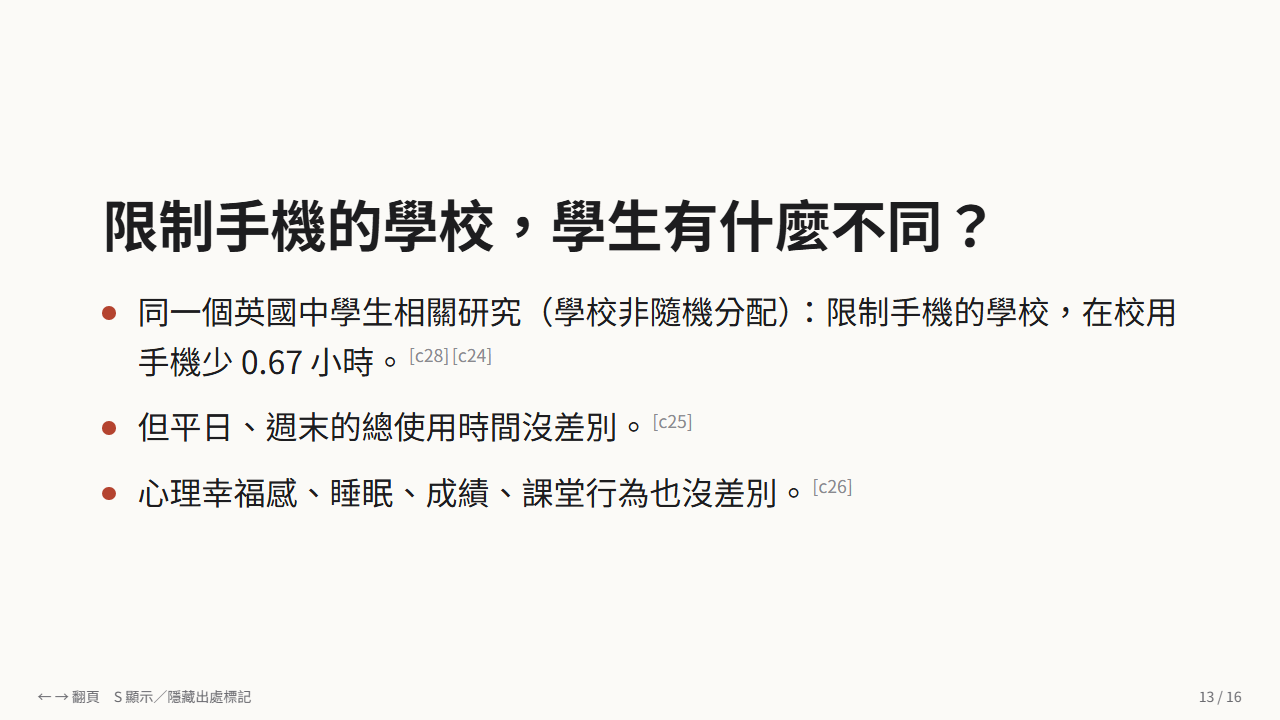
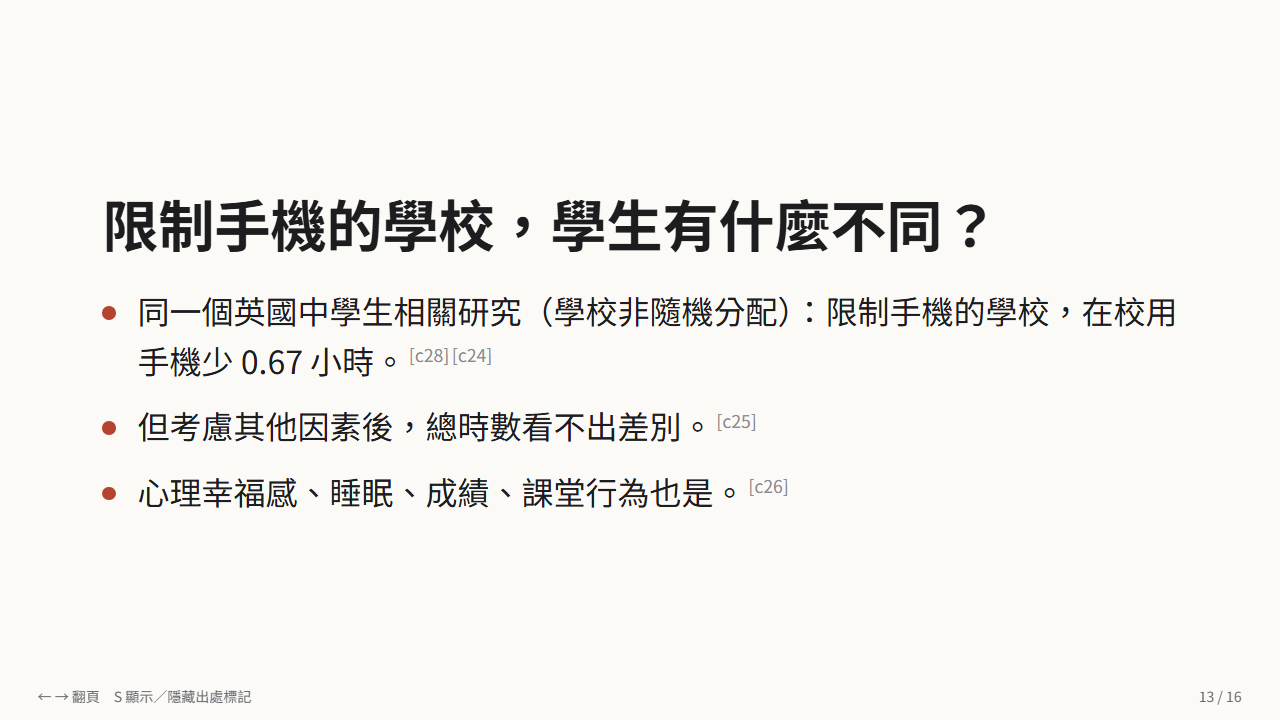
lint: fix 3b-D to 3b-H; slides v5 (c25, slide-13 rerun G5-G8); content freeze

Changed region(s): [[0.125, 0.55, 0.5938, 0.6111], [0.5312, 0.6417, 0.6562, 0.7028]]

diff --git a/outputs/slides-intro/deck.html b/outputs/slides-intro/deck.html
@@ -38,7 +38,7 @@ body.hide-refs .ref{display:none}
 <section class="slide" data-slide="slide-10"><h1>「有關聯」不等於「造成」</h1><ul><li>這篇整理的是「有關聯」，不是「造成」（僅根據摘要）。<span class="ref" title="（[[nguyen-2025]], Abstract: &quot;Increased SFV use was associated with poorer cognition&quot;）">[c15]</span></li></ul><p class="lead">心理健康的研究呢？</p><ul><li>一位研究者的書評提醒：「科技使用」和「心理健康問題」的趨勢線一起上升，不能判斷誰造成誰。<span class="ref" title="（[[odgers-2024]], p. 29: &quot;how to avoid making up stories by simply looking at trend lines&quot;）">[c23]</span></li></ul></section>
 <section class="slide" data-slide="slide-11"><h1>手機、社群媒體是心理健康的元兇嗎？</h1><ul><li>前述短影音整理：看越多，心理健康越差，屬弱相關（僅根據摘要）。<span class="ref" title="（[[nguyen-2025]], Abstract: &quot;Similarly, increased SFV use was associated with poorer mental health (weak mean effect size, r = -.21)&quot;）">[c16]</span></li><li>英國中學生：用手機越久，心理幸福感越低（相關研究）。<span class="ref" title="（[[goodyear-2025]], p. 8: &quot;Increases in smartphone and social media time were associated with reduced mental wellbeing on a weekday, on a weekend day, and across a week&quot;）">[c17]</span></li><li>作者：也可能反過來，心理狀態差的學生用得較多。<span class="ref" title="（[[goodyear-2025]], p. 12: &quot;the study design is cross sectional which makes it difficult to draw conclusions about causality and reverse causality cannot be ruled out&quot;）">[c18]</span></li></ul></section>
 <section class="slide" data-slide="slide-12"><h1>書評：沒證據顯示社群媒體造成心理疾病流行</h1><ul><li>書評指出：研究結果有的沒關聯、有的關聯小、有的不一致。<span class="ref" title="（[[odgers-2024]], p. 29: &quot;Our efforts have produced a mix of no, small and mixed associations&quot;）">[c19]</span></li><li>也提醒可能反過來：原有心理問題的青少年，用得較多或用法不同。<span class="ref" title="（[[odgers-2024]], p. 29: &quot;mental-health problems use such platforms more often or in different ways from their healthy peers&quot;）">[c20]</span></li><li>並指出：沒有證據顯示社群媒體造成心理疾病流行。<span class="ref" title="（[[odgers-2024]], p. 30: &quot;there is no evidence that using these platforms is rewiring children&#x27;s brains or driving an epidemic of mental illness&quot;）">[c21]</span></li></ul></section>
-<section class="slide" data-slide="slide-13"><h1>限制手機的學校，學生有什麼不同？</h1><ul><li>同一個英國中學生相關研究（學校非隨機分配）：限制手機的學校，在校用手機少 0.67 小時。<span class="ref" title="（[[goodyear-2025]], p. 12: &quot;there is a risk of selection bias and unmeasured confounding in this study&quot;）">[c28]</span><span class="ref" title="（[[goodyear-2025]], p. 7: &quot;Students attending restrictive schools had significantly lower in school smartphone time&quot;）">[c24]</span></li><li>但平日、週末的總使用時間沒差別。<span class="ref" title="（[[goodyear-2025]], p. 7: &quot;in the adjusted models, the differences were non-significant&quot;）">[c25]</span></li><li>心理幸福感、睡眠、成績、課堂行為也沒差別。<span class="ref" title="（[[goodyear-2025]], p. 7: &quot;with no evidence of a difference between groups when controlling for other variables&quot;） （[[goodyear-2025]], p. 7: &quot;No significant differences in pupil outcomes were observed between permissive and restrictive schools for all other behavioural outcomes&quot;）">[c26]</span></li></ul></section>
+<section class="slide" data-slide="slide-13"><h1>限制手機的學校，學生有什麼不同？</h1><ul><li>同一個英國中學生相關研究（學校非隨機分配）：限制手機的學校，在校用手機少 0.67 小時。<span class="ref" title="（[[goodyear-2025]], p. 12: &quot;there is a risk of selection bias and unmeasured confounding in this study&quot;）">[c28]</span><span class="ref" title="（[[goodyear-2025]], p. 7: &quot;Students attending restrictive schools had significantly lower in school smartphone time&quot;）">[c24]</span></li><li>但考慮其他因素後，總時數看不出差別。<span class="ref" title="（[[goodyear-2025]], p. 7: &quot;in the adjusted models, the differences were non-significant&quot;）">[c25]</span></li><li>心理幸福感、睡眠、成績、課堂行為也是。<span class="ref" title="（[[goodyear-2025]], p. 7: &quot;with no evidence of a difference between groups when controlling for other variables&quot;） （[[goodyear-2025]], p. 7: &quot;No significant differences in pupil outcomes were observed between permissive and restrictive schools for all other behavioural outcomes&quot;）">[c26]</span></li></ul></section>
 <section class="slide" data-slide="slide-14"><h1>這個研究沒回答的事：注意力</h1><ul><li>同一個英國中學生研究沒有測量注意力（包括專注力）。<span class="ref" title="（[[goodyear-2025]], p. 5: &quot;Secondary health and education-related outcomes assessed in pupil participants were: anxiety, depression, physical activity, sleep, classroom behaviour, attainment, and problematic social media use&quot;）">[c27]</span></li><li>所以「限制手機能不能讓學生更專心」，這個研究無法回答。<span class="ref" title="（[[goodyear-2025]], p. 5: &quot;Secondary health and education-related outcomes assessed in pupil participants were: anxiety, depression, physical activity, sleep, classroom behaviour, attainment, and problematic social media use&quot;）">[c27]</span></li></ul></section>
 <section class="slide" data-slide="slide-15"><h1>看到手機新聞，先問三件事</h1><p class="lead">是相關，還是實驗？<span class="wref" title="wiki 概念頁：wiki/concepts/correlation-vs-causation.md">[[correlation-vs-causation]]</span></p><p class="lead">研究對象是誰？<span class="wref" title="wiki 概念頁：wiki/concepts/study-population.md">[[study-population]]</span></p><p class="lead">有沒有人重做過？<span class="wref" title="wiki 概念頁：wiki/concepts/replication.md">[[replication]]</span></p><ul><li>另外，那篇書評認為：考量青少年花在平台上的時間，平台仍然需要改革。<span class="ref" title="（[[odgers-2024]], p. 30: &quot;considerable reforms to these platforms are required, given how much time young people spend on them&quot;）">[c22]</span></li></ul></section>
 <section class="slide sources generated" data-slide="sources"><h1>資料來源</h1><ul><li>[c01] Panova 與 Carbonell, 2018, p. 252</li><li>[c02] Panova 與 Carbonell, 2018, p. 252</li><li>[c03] Panova 與 Carbonell, 2018, p. 255</li><li>[c04] Panova 與 Carbonell, 2018, p. 256</li><li>[c05] Panova 與 Carbonell, 2018, p. 252</li><li>[c06] Panova 與 Carbonell, 2018, p. 255</li><li>[c07] Ward 等人, 2017, p. 145</li><li>[c08] Ward 等人, 2017, p. 148</li><li>[c09] Pileggi 等人, 2025, Abstract（僅摘要）</li><li>[c10] Ward 等人, 2017, p. 150</li><li>[c11] Ward 等人, 2017, p. 145；p. 147</li><li>[c12] Nguyen 等人, 2025, Abstract（僅摘要）</li><li>[c13] Nguyen 等人, 2025, Abstract（僅摘要）</li><li>[c14] Nguyen 等人, 2025, Abstract（僅摘要）</li><li>[c15] Nguyen 等人, 2025, Abstract（僅摘要）</li><li>[c16] Nguyen 等人, 2025, Abstract（僅摘要）</li><li>[c17] Goodyear 等人, 2025, p. 8</li><li>[c18] Goodyear 等人, 2025, p. 12</li><li>[c19] Odgers, 2024, p. 29</li><li>[c20] Odgers, 2024, p. 29</li><li>[c21] Odgers, 2024, p. 30</li><li>[c22] Odgers, 2024, p. 30</li><li>[c23] Odgers, 2024, p. 29</li><li>[c24] Goodyear 等人, 2025, p. 7</li><li>[c25] Goodyear 等人, 2025, p. 7</li><li>[c26] Goodyear 等人, 2025, p. 7</li><li>[c27] Goodyear 等人, 2025, p. 5</li><li>[c28] Goodyear 等人, 2025, p. 12</li><li>[c29] Pileggi 等人, 2025, Abstract（僅摘要）</li></ul></section>

diff --git a/wiki/log.md b/wiki/log.md
@@ -273,3 +273,21 @@ updated: 2026-11-23
   - 問題：5 處輕微（3b-D 到 3b-H：panova「大多」、odgers「or measurable」、goodyear「調整後」、「很多被叫做」、「研究都是在實驗室」）｜步驟：3b 掃描｜處理：不改，寫進 lint-report.md 等使用者決定
   - 觀察：48 處候選中有 19 處是「英文有 or、中文沒有『或』」，其中 15 處是否定句（either…or）或「兩者都」的用法，翻成「和」或省略並不改變意思；其餘候選多是中文的「都」只是語氣，或量詞的根據在短引以外的原文前後文。所以 3b 不能只靠腳本比對字面，一定要人工判讀
   - 自我檢查：寫這筆紀錄時，我第一版寫成「48 處候選中，**大多數**是英文 or……」，實際上只有 19 處，就是 3b 要抓的量詞誇大；已經改成實際數字
+
+## [2026-11-23] lint | 修正 3b-D 到 3b-H（使用者指示；3b-H 照會誤導等級處理）
+- 修改 wiki：
+  - 3b-D：[[panova-2018]] 主要發現 5、[[is-smartphone-addiction-real]]「反對」一節：「研究大多是在健康的人身上做篩檢問卷」改成「手機成癮的症狀，是在健康的人身上做的篩檢和相關研究中找到的，不是臨床樣本」；主張頁補上原本缺的短引（p. 255 "the symptoms of smartphone addiction have been identified..."）
+  - 3b-E：[[odgers-2024]]「作者對其他研究的描述」：補上「或可測量」（"no consistent or measurable associations"）
+  - 3b-F：[[goodyear-2025]] 主要發現 2：改成「調整其他因素後，整體使用時間沒有顯著差別」，並補上原文的「限制型學校的中位數其實比較高」（p. 7 短引）；同一個說法也出現在 [[school-phone-bans]] 的簡短回答、表格、「為什麼會這樣」，3 處一起改
+  - 3b-G：[[problematic-smartphone-use]]：「很多被叫做……的行為」改成「研究中觀察到、被叫做……的那些行為」
+  - 3b-H（會誤導等級）：[[where-to-put-phone-when-studying]]：「研究都是在實驗室裡做的」改成「[[ward-2017]] 的實驗是在實驗室裡做的」
+- L1 重跑：錯誤 0 個、警告 0 個；`check_odgers.py` 35 句全部通過；3b 掃描腳本的候選從 48 處降到 39 處（剩下的都是上一輪判讀為沒問題的）
+- 影響 outputs：3b-D、E、G、H 的句子沒有被 cards/ 或 drafts/ 用到；**3b-F 影響卡片 c25 和 slide-13**（大綱的重點同步更新）
+- slides 關卡：G3、G4 通過；slide-13 G6 (a) 通過（80 字）；G6 (b) 第 1 輪不通過、第 2 輪通過；G6 (c)（只看 slide-13 和其他頁）會誤導 0 個、輕微 3 個；G7 通過；G8 通過（16 頁沒有溢出），人工看過 slide-13 截圖
+- 檢查結果（每次退回）：
+  - 問題：slide-13 第 3 行改成「但考慮其他因素後，總使用時間沒差別」後 82 字｜步驟：G6 (a)｜處理：「總使用時間」改成「總時數」
+  - 問題：「沒差別」把 "non-significant" 講成確定沒有差別；第 4 行同樣，而且漏了「控制其他變項」｜步驟：G6 (b) 第 1 輪｜處理：退回 G5，第 3 行改成「總時數看不出差別」，第 4 行改成「……也是」，讓第 4 行接續第 3 行的限定條件，總字數仍是 80
+  - 確認：審查員問 0.67 小時是不是調整後的結果；查 raw-text，是 "adjusted mean difference −0.67 h"，第 2 行不用改
+  - 問題：G6 (c) 輕微 3 個（slide-13 的稱呼多了「相關」兩字、slide-11 第一次出現沒照用詞表、第 4 行「也是」太省略）｜步驟：G6 (c)｜處理：不退回；第 1、3 個改了會超過 80 字，第 2 個要改別頁，記進 report
+  - 新發現：c26 卡片和 [[school-phone-bans]] 其他列，也把 "no significant differences" 寫成「沒有差別」，和 3b-F 是同一類（不顯著寫成沒有差別）。slide-13 已經寫成「看不出差別」，不受影響。這一輪之後內容凍結，所以沒有修，記進 report 的已知限制
+- **內容凍結**：使用者指示，這一輪完成後不再修改 wiki 和簡報

diff --git a/wiki/claims/school-phone-bans.md b/wiki/claims/school-phone-bans.md
@@ -10,14 +10,14 @@ updated: 2026-11-23
 
 ## 簡短回答
 
-**要看「對什麼有用」。** 一個英國的大型觀察研究發現，限制手機的學校，學生在學校裡確實比較少用手機；但整天的總使用時間，以及心理健康、睡眠、成績和課堂行為，都和允許手機的學校**沒有差別**。這個研究**沒有測量注意力**，所以目前無法回答「禁手機能不能讓學生上課更專心」。
+**要看「對什麼有用」。** 一個英國的大型觀察研究發現，限制手機的學校，學生在學校裡確實比較少用手機；但調整其他因素後，整天的總使用時間，以及心理健康、睡眠、成績和課堂行為，都和允許手機的學校**沒有顯著差別**。這個研究**沒有測量注意力**，所以目前無法回答「禁手機能不能讓學生上課更專心」。
 
 ## 對什麼有用？
 
 | 對什麼有用？ | 研究結果 | 出處 |
 |---|---|---|
 | 減少**在校**使用時間 | **有**，在校用手機的時間少了 0.67 小時 | （[[goodyear-2025]], p. 7: "Students attending restrictive schools had significantly lower in school smartphone time"） |
-| 減少**整體**使用時間 | **沒有差別**（平日、週末、一整週） | （[[goodyear-2025]], p. 7: "in the adjusted models, the differences were non-significant"） |
+| 減少**整體**使用時間 | 調整其他因素後，**沒有顯著差別**（平日、週末、一整週） | （[[goodyear-2025]], p. 7: "in the adjusted models, the differences were non-significant"） |
 | 心理幸福感（mental wellbeing） | **沒有差別** | （[[goodyear-2025]], p. 7: "with no evidence of a difference between groups when controlling for other variables"） |
 | 睡眠、運動、成績、課堂行為 | **沒有差別** | （[[goodyear-2025]], p. 7: "No significant differences in pupil outcomes were observed between permissive and restrictive schools for all other behavioural outcomes"） |
 | **注意力、專注力** | **沒有測量** | 研究測量的項目見 [[goodyear-2025]]「研究設計與對象」 |
@@ -32,7 +32,7 @@ updated: 2026-11-23
 - 【相關性研究｜英國 12–15 歲中學生】就算只看手機完全拿不到的學校，結果也一樣（[[goodyear-2025]], p. 7: "In the sensitivity analysis using only restrictive schools where phones were inaccessible to pupils, there were no significant differences with permissive schools across all outcomes"）
 - 【相關性研究｜英國 12–15 歲中學生】作者的結論是：目前沒有證據支持現行形式的學校禁手機政策（[[goodyear-2025]], p. 1: "The findings do not provide evidence to support the use of school policies that prohibit phone use during the school day in their current form"）
 
-**為什麼會這樣？** 作者的解釋是，在校使用只占總使用量的一小部分（[[goodyear-2025]], p. 12: "phone and social media use is only a small contributor to overall use on school days"）。學校限制了白天的使用，但沒有減少學生的整體使用時間。
+**為什麼會這樣？** 作者的解釋是，在校使用只占總使用量的一小部分（[[goodyear-2025]], p. 12: "phone and social media use is only a small contributor to overall use on school days"）。學校限制了白天的使用，但調整其他因素後，學生的整體使用時間沒有顯著差別。
 
 ## 專家意見（不算研究證據）
 

diff --git a/wiki/sources/panova-2018.md b/wiki/sources/panova-2018.md
@@ -36,7 +36,7 @@ n: 未載明（文獻回顧，不適用）
 2. **比較適合稱為「問題性」或「適應不良」的使用**，因為後果的嚴重程度達不到成癮的程度（[[panova-2018]], p. 252: "The behaviors observed in the research could be better labeled as problematic or maladaptive smartphone use"）
 3. **負面後果不等於成癮。** 相關研究確實發現，過度使用手機的人有比較多焦慮、憂鬱等狀況（[[panova-2018]], p. 256: "In correlational studies, overuse of the smartphone is associated with various mental health concerns, such as anxiety, depression, stress, and low self-esteem"），但作者強調，有負面後果和是不是成癮是兩回事（[[panova-2018]], p. 257: "negative consequences is not the same as the existence of addiction"）
 4. **問題在活動，不在裝置。** 作者用酒杯和針筒來比喻：成癮的對象是酒和藥物，不是裝它們的容器（[[panova-2018]], p. 256: "the addiction is to the substance not to the vessel or to the route of administration"）。手機的問題取決於用它來做什麼（[[panova-2018]], p. 256: "but the problem is not the smartphone device itself"）
-5. **篩檢研究不能用來診斷。** 手機成癮的研究大多是在健康的人身上做篩檢問卷，而不是臨床樣本（[[panova-2018]], p. 255: "the symptoms of smartphone addiction have been identified in screening and correlational studies with healthy people"），而且篩檢工具本身不能拿來診斷（[[panova-2018]], p. 255: "the screening instruments used are not valid for diagnosis"）
+5. **篩檢研究不能用來診斷。** 手機成癮的症狀，是在健康的人身上做的篩檢和相關研究中找到的，而不是臨床樣本（[[panova-2018]], p. 255: "the symptoms of smartphone addiction have been identified in screening and correlational studies with healthy people"），而且篩檢工具本身不能拿來診斷（[[panova-2018]], p. 255: "the screening instruments used are not valid for diagnosis"）
 6. **截至這篇文章發表時，精神疾病診斷手冊裡沒有手機成癮**（[[panova-2018]], p. 252: "no mention has been made of smartphone addiction in either the DSM-5 or in the ICD-11's draft"）
 
 ## 作者逐項檢驗的成癮標準

diff --git a/wiki/sources/goodyear-2025.md b/wiki/sources/goodyear-2025.md
@@ -37,7 +37,7 @@ n: 1227（30 所學校）
 ## 主要發現 A：限制手機 vs. 允許手機
 
 1. **在校使用時間比較少。** 限制型學校的學生，在校用手機的時間少了 0.67 小時、用社群媒體的時間少了 0.54 小時（[[goodyear-2025]], p. 7: "Students attending restrictive schools had significantly lower in school smartphone time"）
-2. **但整體使用時間沒有差別。** 平日、週末和一整週的使用時間都沒有差別（[[goodyear-2025]], p. 7: "in the adjusted models, the differences were non-significant"）
+2. **但調整其他因素後，整體使用時間沒有顯著差別。** 平日、週末和一整週的使用時間，限制型學校的中位數其實比較高（[[goodyear-2025]], p. 7: "the median use duration in restrictive schools was greater"），但在調整其他因素後的模型中，差異都不顯著（[[goodyear-2025]], p. 7: "in the adjusted models, the differences were non-significant"）
 3. **心理幸福感沒有差別**（[[goodyear-2025]], p. 7: "with no evidence of a difference between groups when controlling for other variables"）；焦慮和憂鬱也沒有差別（[[goodyear-2025]], p. 7: "there was no evidence of a significant difference between permissive and restrictive schools"）
 4. **睡眠、運動、成績、課堂行為也都沒有差別**（[[goodyear-2025]], p. 7: "No significant differences in pupil outcomes were observed between permissive and restrictive schools for all other behavioural outcomes"）
 5. **就算是「手機完全拿不到」的學校也一樣。** 只看手機必須鎖起來或交出去的學校，和允許型學校比較，結果仍然沒有差別（[[goodyear-2025]], p. 7: "In the sensitivity analysis using only restrictive schools where phones were inaccessible to pupils, there were no significant differences with permissive schools across all outcomes"）

diff --git a/wiki/claims/is-smartphone-addiction-real.md b/wiki/claims/is-smartphone-addiction-real.md
@@ -26,7 +26,7 @@ updated: 2026-11-23
 - 【評論】目前證據不足以確認手機成癮存在（[[panova-2018]], p. 252: "we did not find sufficient support from the addiction perspective to confirm the existence of smartphone addiction at this time"）
 - 【評論】後果的嚴重程度達不到成癮（[[panova-2018]], p. 252: "their consequences do not meet the severity levels of those caused by addiction"）
 - 【評論】問題在用手機做的**活動**，不在手機本身（[[panova-2018]], p. 256: "but the problem is not the smartphone device itself"）
-- 【評論】研究大多是在健康的人身上做篩檢問卷，而篩檢工具不能用來診斷（[[panova-2018]], p. 255: "the screening instruments used are not valid for diagnosis"），偽陽性（false positive）的機率也很高（[[panova-2018]], p. 255: "there is a large probability of false positives"）
+- 【評論】手機成癮的症狀，是在健康的人身上做的篩檢和相關研究中找到的，不是臨床樣本（[[panova-2018]], p. 255: "the symptoms of smartphone addiction have been identified in screening and correlational studies with healthy people"）；而篩檢工具不能用來診斷（[[panova-2018]], p. 255: "the screening instruments used are not valid for diagnosis"），偽陽性（false positive）的機率也很高（[[panova-2018]], p. 255: "there is a large probability of false positives"）
 - 【評論】作者擔心「成癮」被過度使用，會製造出假的流行病（[[panova-2018]], p. 256: "in order to avoid generating false epidemics of misidentified pseudopatients"）
 
 ## 支持「是成癮」的證據

diff --git a/wiki/faq/where-to-put-phone-when-studying.md b/wiki/faq/where-to-put-phone-when-studying.md
@@ -34,7 +34,7 @@ updated: 2026-11-23
 
 - **兒童和青少年是否一樣？** 唯一發現效果的實驗是在大學生身上做的，作者自己也說，兒童和青少年需要另外研究（[[ward-2017]], p. 151: "Future research could focus on how children, adolescents, and young adults are affected"）。
 - **讀書成效會不會受影響？** 實驗測的是用來衡量認知容量的作業（[[ward-2017]], p. 144: "completed two tasks intended to measure available cognitive capacity"），不是在家讀書、寫作業或考試的成績。
-- **長時間讀書時會怎樣？** 研究都是在實驗室裡做的（[[ward-2017]], p. 150: "participants in our experiments expected to be separated from their phones (this was the norm in the lab)"），不是長時間在家讀書的情境。
+- **長時間讀書時會怎樣？** [[ward-2017]] 的實驗是在實驗室裡做的（[[ward-2017]], p. 150: "participants in our experiments expected to be separated from their phones (this was the norm in the lab)"），不是長時間在家讀書的情境。
 - **手機通知的影響？** 實驗中手機都是靜音或關機的（[[ward-2017]], p. 146: "randomly assigning participants to either silence their phones (as in experiment 1) or turn them off completely"），所以不知道有通知時會怎樣。
 
 ## 給家長和老師的提醒

diff --git a/wiki/sources/odgers-2024.md b/wiki/sources/odgers-2024.md
@@ -47,7 +47,7 @@ n: 未載明（書評，不適用）
 > 以下是作者對其他研究的描述，wiki 尚未收錄那些研究。
 
 - 多篇統合分析（meta-analysis）和系統性回顧（systematic review）的結論一致（[[odgers-2024]], p. 29: "Several meta-analyses and systematic reviews converge on the same message"）
-- 一項跨國分析沒有發現社群媒體普及和幸福感之間有一致的關聯（[[odgers-2024]], p. 29: "shows no consistent or measurable associations between well-being and the roll-out of social media globally"）
+- 一項跨國分析沒有發現社群媒體在全球普及和幸福感之間，有一致或可測量的關聯（[[odgers-2024]], p. 29: "shows no consistent or measurable associations between well-being and the roll-out of social media globally"）
 - 美國一項大型的青少年腦發展追蹤研究，沒有發現和數位科技使用有關的劇烈變化（[[odgers-2024]], p. 29: "has found no evidence of drastic changes associated with digital-technology use"）
 
 ## 作者意見：禁止手機可能沒效

diff --git a/wiki/concepts/problematic-smartphone-use.md b/wiki/concepts/problematic-smartphone-use.md
@@ -13,7 +13,7 @@ en: problematic smartphone use
 
 問題性手機使用指的是：手機用得多到**帶來一些麻煩**，例如影響睡眠、課業或人際關係，但嚴重程度**還不到**醫學上「成癮」的程度。
 
-[[panova-2018]] 認為，很多被叫做「手機成癮」的行為，用這個詞來描述比較準確（[[panova-2018]], p. 252: "The behaviors observed in the research could be better labeled as problematic or maladaptive smartphone use"）。
+[[panova-2018]] 認為，研究中觀察到、被叫做「手機成癮」的那些行為，用這個詞來描述比較準確（[[panova-2018]], p. 252: "The behaviors observed in the research could be better labeled as problematic or maladaptive smartphone use"）。
 
 ## 和「成癮」、「依賴」有什麼不同？
 

diff --git a/outputs/slides-intro/outline.md b/outputs/slides-intro/outline.md
@@ -65,7 +65,7 @@
 
 ## slide-13｜限制手機的學校，學生有什麼不同？
 - 段落：S5
-- 重點：在校使用減少了，但整體使用時間、心理健康、睡眠、成績都沒有差別；一開始就說明這是觀察研究（審查員建議，使用者採用）。
+- 重點：在校使用減少了，但考慮其他因素後，整體使用時間、心理健康、睡眠、成績都沒有差別（「考慮其他因素後」是 3b-F 修正）；一開始就說明這是觀察研究（審查員建議，使用者採用）。
 - 卡片：c24, c25, c26, c28
 
 ## slide-14｜這個研究沒回答的事：注意力

diff --git a/outputs/slides-intro/drafts/slide-13.md b/outputs/slides-intro/drafts/slide-13.md
@@ -1,4 +1,4 @@
 # 限制手機的學校，學生有什麼不同？
 - 同一個英國中學生相關研究（學校非隨機分配）：限制手機的學校，在校用手機少 0.67 小時。[c28][c24]
-- 但平日、週末的總使用時間沒差別。[c25]
-- 心理幸福感、睡眠、成績、課堂行為也沒差別。[c26]
+- 但考慮其他因素後，總時數看不出差別。[c25]
+- 心理幸福感、睡眠、成績、課堂行為也是。[c26]
